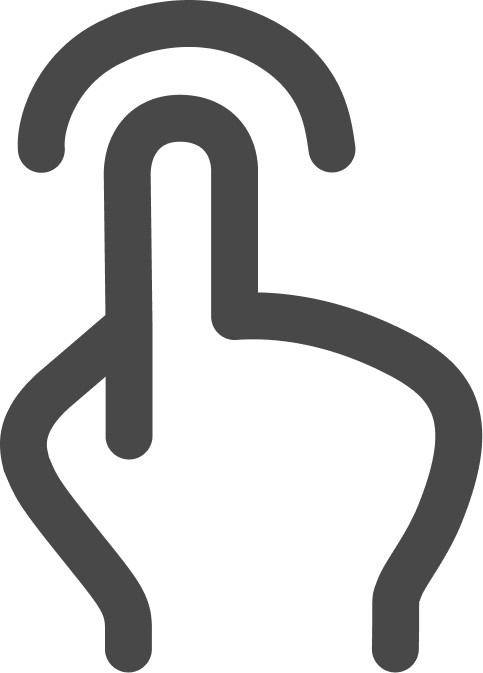
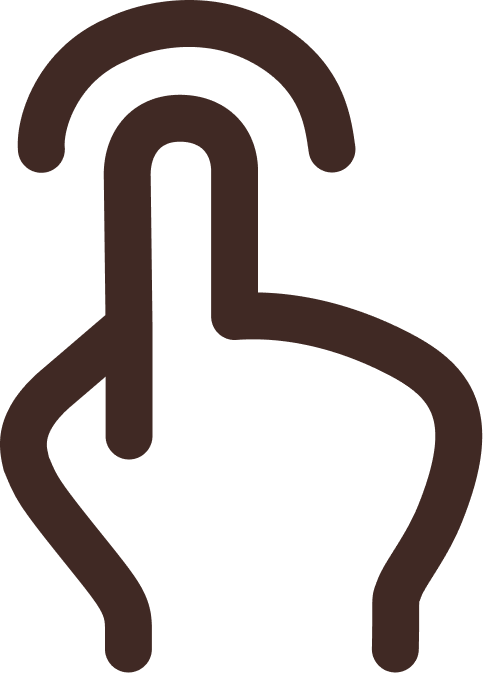
farve ændring

Changed region(s): [[0.0, 0.1248, 1.0, 0.9985], [0.0311, 0.0, 0.7453, 0.2808]]

diff --git a/css/input.css b/css/input.css
@@ -7,7 +7,7 @@
 /*VARIABLER*/
 
 :root {
-  --text-color: #484848;
+  --text-color: #402924;
   --bg-color: white;
   --btn-color: #f4e5c1;
 
@@ -40,7 +40,7 @@ p {
   font-size: var(--font-size);
   font-family: var(--font);
   font-weight: var(--font-weight);
-  color: #484848;
+  color: var(--text-color);
   line-height: 1.25;
   text-align: center;
 

diff --git a/css/thank-you.css b/css/thank-you.css
@@ -4,7 +4,7 @@
   box-sizing: border-box;
 }
 :root {
-  --text-color: #484848;
+  --text-color: #402924;
   --bg-color: #fffaee;
   --btn-color: #f4e5c1;
 

diff --git a/css/confirm.css b/css/confirm.css
@@ -7,7 +7,7 @@
 /*VARIABLER*/
 
 :root {
-  --text-color: #484848;
+  --text-color: #402924;
   --bg-color: white;
   --btn-color: #f4e5c1;
 

diff --git a/css/start.css b/css/start.css
@@ -5,7 +5,7 @@
 }
 
 :root {
-  --text-color: #484848;
+  --text-color: #402924;
   --bg-color: #fffaee;
   --btn-color: #f4e5c1;
 
